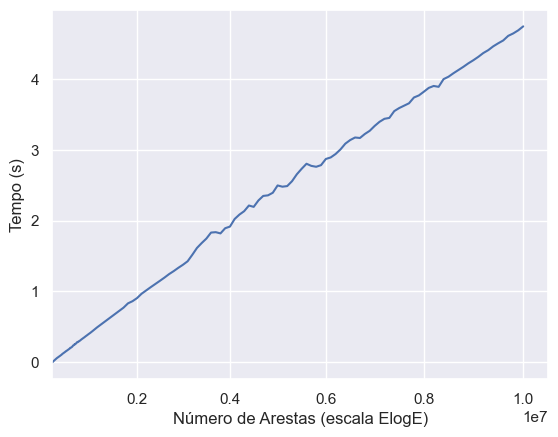
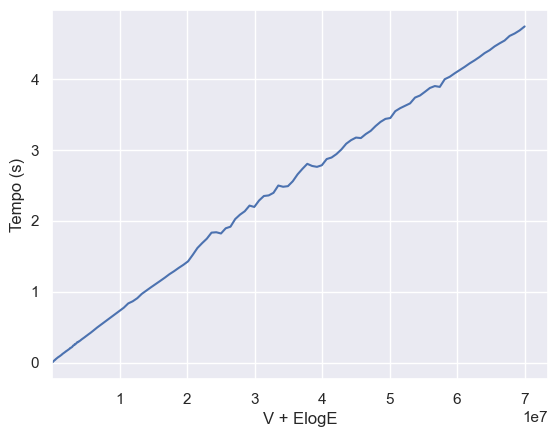
Fixed time complexity on the report to take into account unconnected graphs.

diff --git a/report/report.tex b/report/report.tex
@@ -64,11 +64,11 @@
     \item São realizadas $O(E)$ operações de \texttt{findSet} e \texttt{merge}.
     \item Através do uso de conjuntos disjuntos, com as heurísticas de união por categoria e compressão de caminhos, podemos concluir que a complexidade do \textit{for loop} é $O(E a(V))$.
     \item A função $a(V)$ corresponde à inversa da função de Ackermann\cite{enwiki:1123526697}, sendo sub-logarítmica e, portanto, de crescimento prolongado.
-    \item Em qualquer aplicação concebível de um conjunto disjunto, $a(V) <= 4$. Assim, podemos tomar a complexidade do \textit{for loop} como linear em E. Estritamente falando, porém, na realidade é pior que linear.
+    \item Em qualquer aplicação concebível de um conjunto disjunto, $a(V) <= 4$\cite{enwiki:1123526697}. Assim, podemos tomar a complexidade do \textit{for loop} como linear em E. Estritamente falando, porém, na realidade é pior que linear.
     \item A apresentação do resultado é feita em tempo constante. Logo, $\Theta(1)$.
   \end{itemize}
 
-  Assim, no pior caso tem-se uma complexidade temporal $O(E\log E)$, pois é o termo dominante de todas as complexidades analisadas.
+  Assim, no pior caso tem-se uma complexidade temporal $O(V + E\log E)$, pois são os termos dominantes de todas as complexidades analisadas, já que o grafo não é necessariamente ligado.
 
   A solução tem complexidade espacial $\Theta(E + V)$, visto que se utilizou um vetor, de tamanho $E$, para todas as arestas do grafo e para os conjuntos disjuntos foram necessários mais dois vetores de tamanho $V$, um para os vértices representantes de cada vértice e outro para as categorias de cada vértice representante.
 
@@ -83,8 +83,8 @@
     \caption{Complexidade temporal do problema proposto}
   \end{figure}
 
-  O gráfico apresentado tem o número de arestas no eixo dos $xx$ com uma escala $E \log E$ e o tempo em segundos no eixo dos $yy$.
-  Os dados revelam uma tendência linear, comprovando que a complexidade temporal do problema é, num caso geral, $O(E\log E)$, tal como concluído na análise teórica.
+  O gráfico apresentado tem o número de arestas no eixo dos $xx$ com uma escala $V + E \log E$ e o tempo em segundos no eixo dos $yy$.
+  Os dados revelam uma tendência linear, comprovando que a complexidade temporal do problema é, num caso geral, $O(V + E\log E)$, tal como concluído na análise teórica.
 
   \printbibliography[title={Referência}]
 
